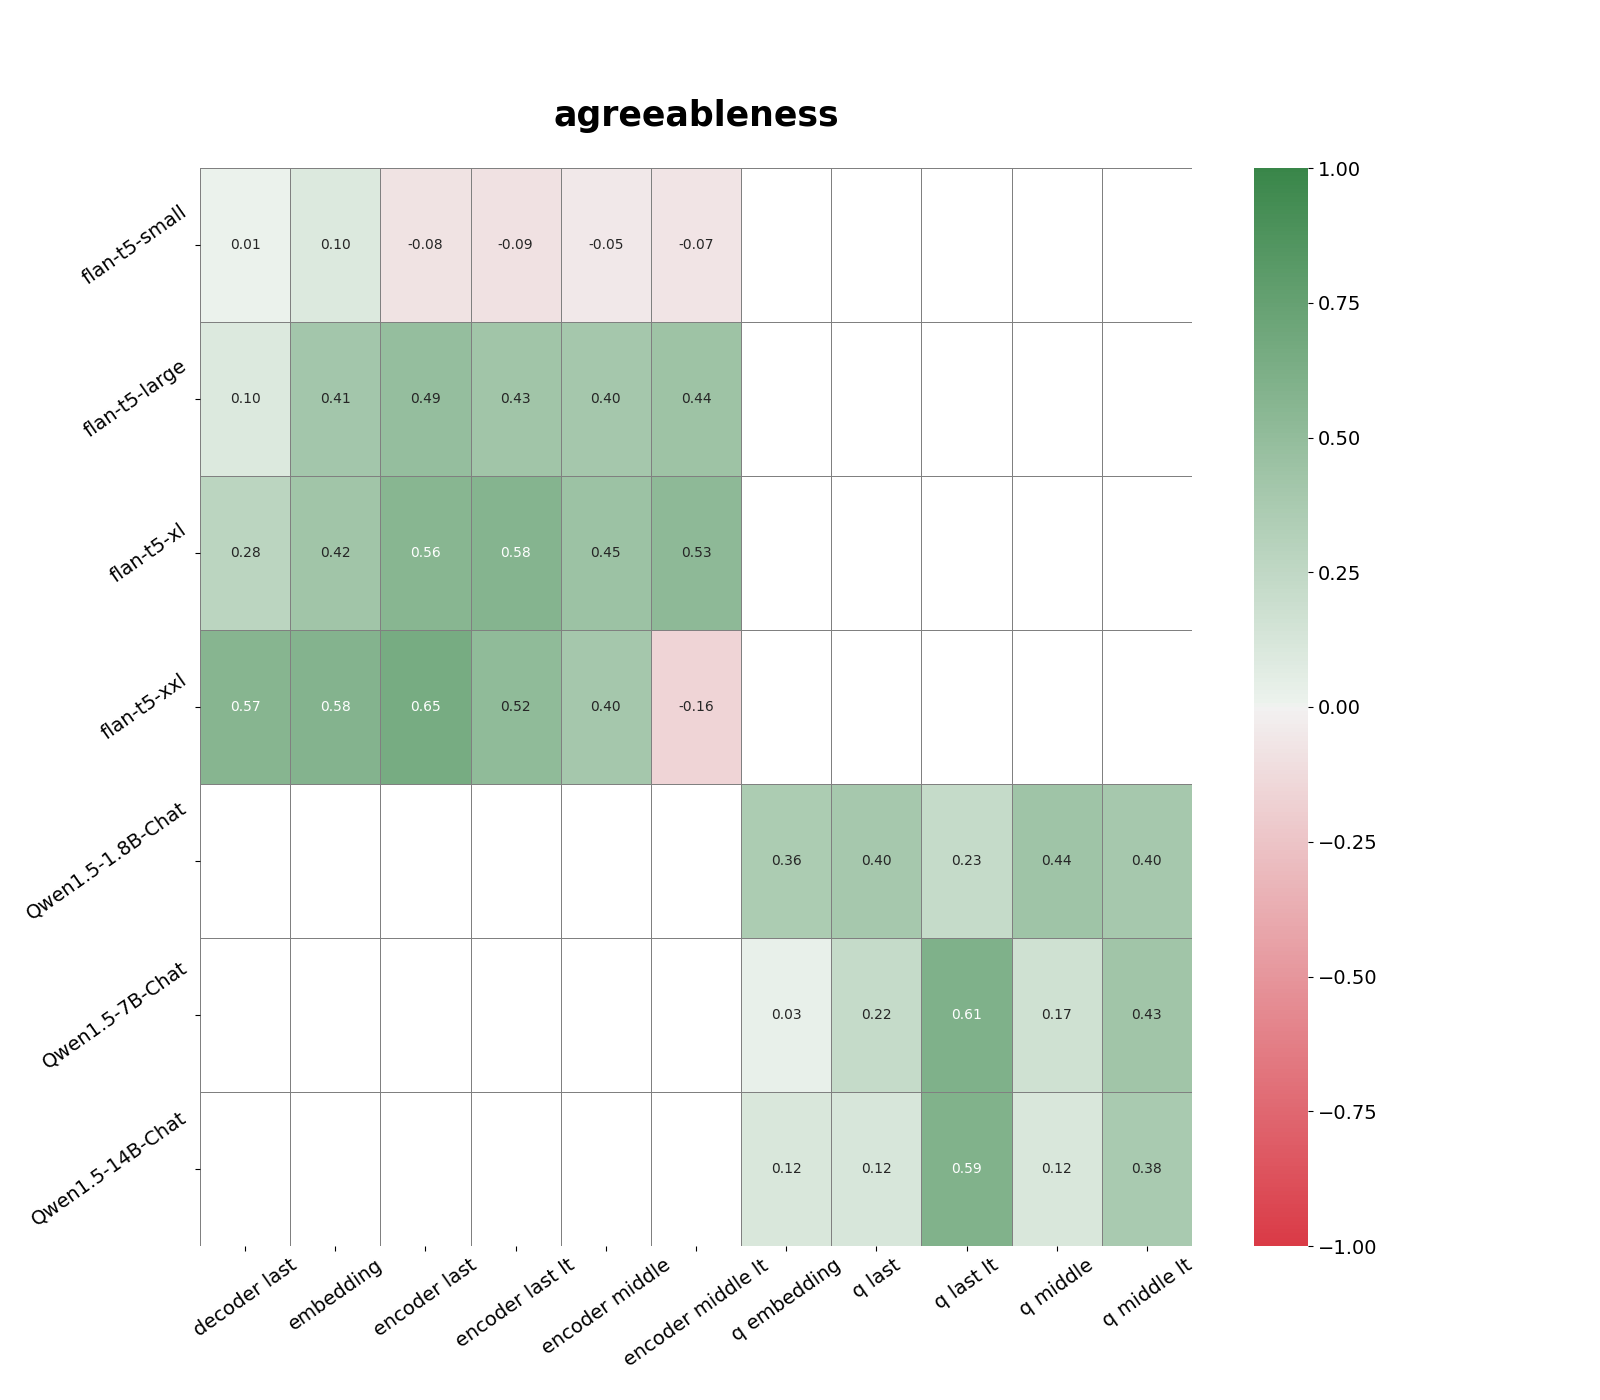
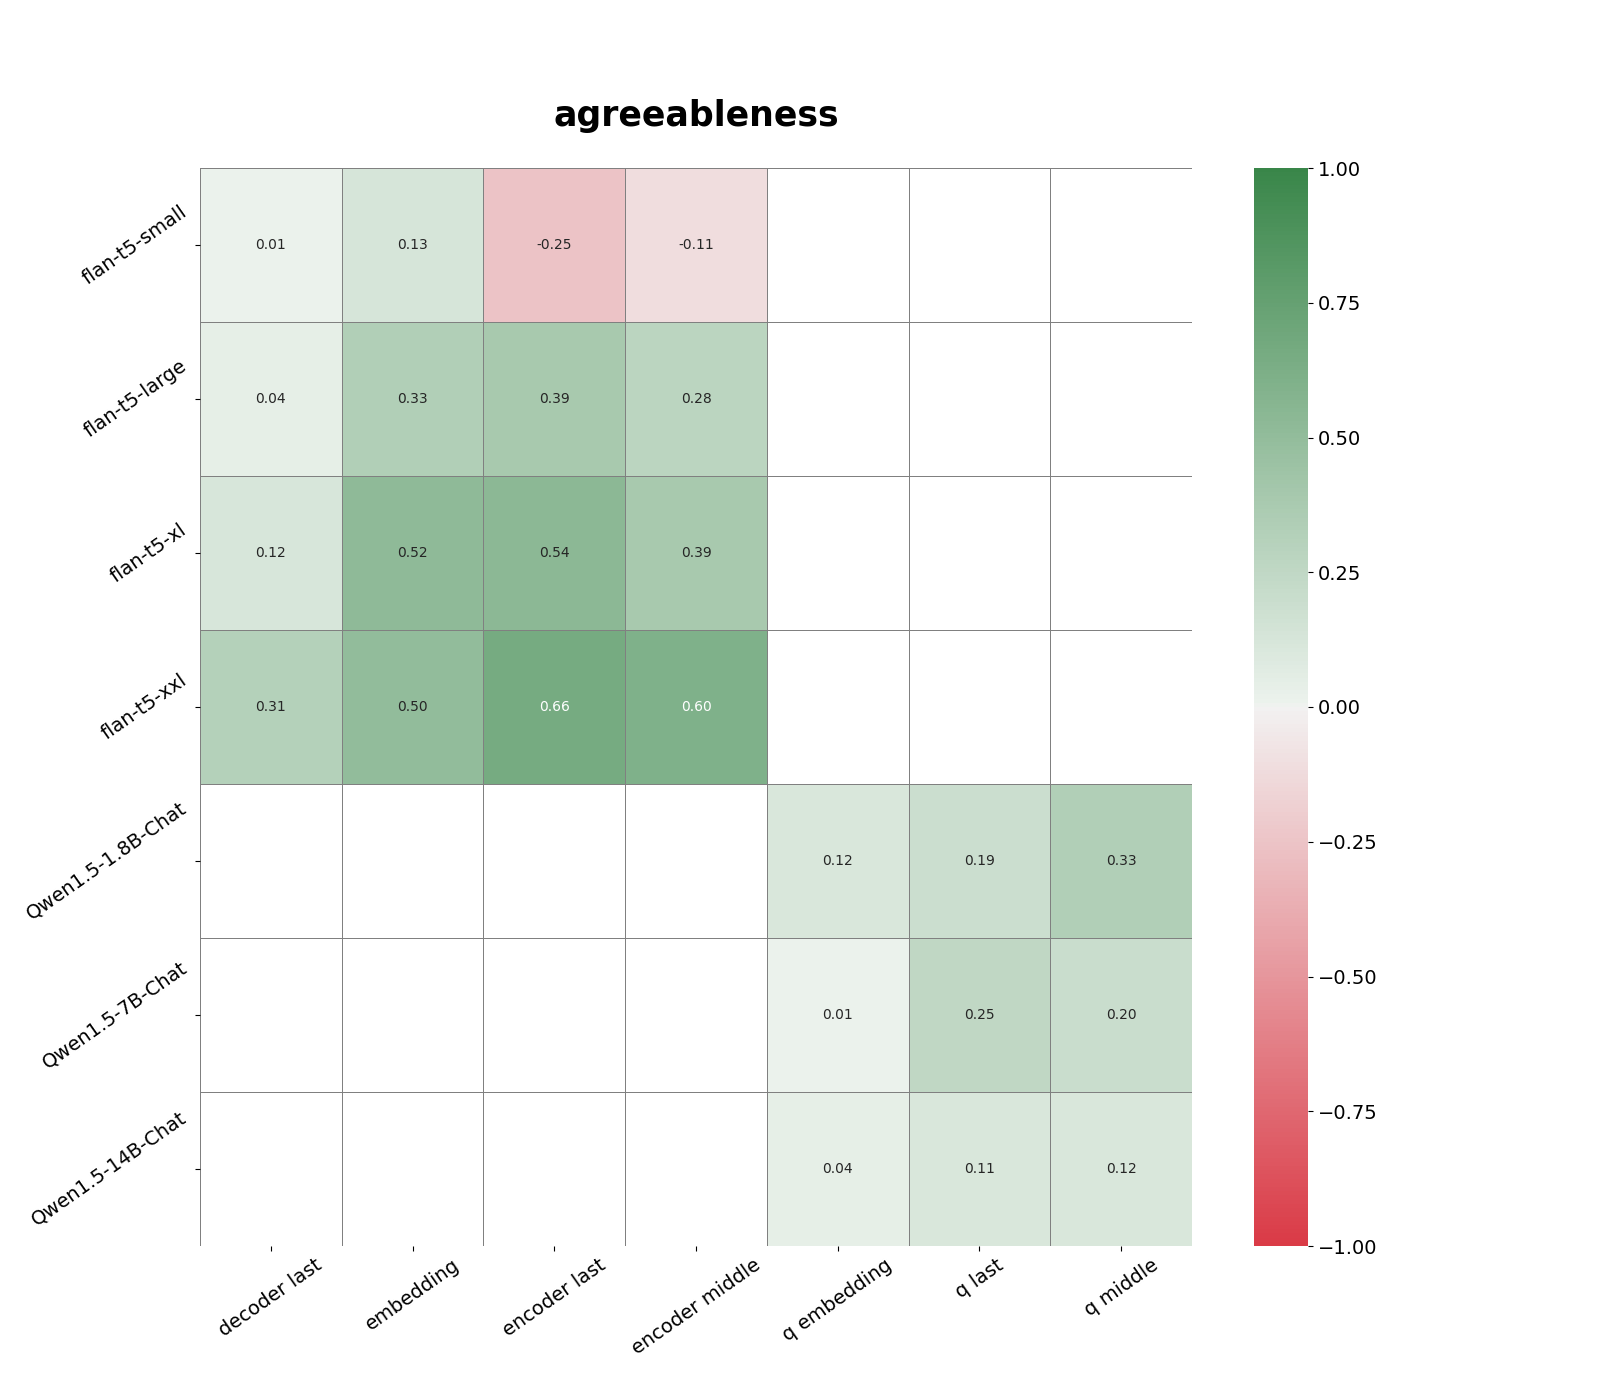
Add layer sweep results

diff --git a/retrieval_lookup.py b/retrieval_lookup.py
@@ -1,0 +1,118 @@
+import os
+from generate_graphs import (
+    TARGET_DIR,
+    generate_all_pairs_heatmaps,
+    list_directories,
+    load_file_contents,
+    extract_prob,
+)
+from retrieval import get_top_k_similar_responses, weighted_average_prob
+from scipy.stats import pearsonr
+from sentence_transformers.util import cos_sim
+import torch
+import jsonlines
+
+
+def queried_response_probs_lookup(
+    model_persona_data, lookup_persona_data, top_k, embeddings_data_file
+):
+    predicted_prob_list, model_prob_list = [], []
+    top_cos_sims = []
+    for i, line in enumerate(model_persona_data):
+        top_k_results = get_top_k_similar_responses(
+            i, model_persona_data, embeddings_data_file, top_k
+        )
+        predicted_prob_list.append(
+            weighted_average_prob(top_k_results, lookup_persona_data)
+        )
+        model_prob_list.append(extract_prob(line))
+        top_cos_sims.append(top_k_results[0][1])
+
+    return model_prob_list, predicted_prob_list, sum(top_cos_sims) / len(top_cos_sims)
+
+
+def compute_cos_sim_lookup(embeddings_data, lookup_embeddings_data):
+    embeddings = [embedding["embedding"] for embedding in embeddings_data]
+    lookup_embeddings = [embedding["embedding"] for embedding in lookup_embeddings_data]
+    for i, embedding in enumerate(embeddings):
+        cos_sims = cos_sim(embedding, lookup_embeddings)[0]
+        embeddings_data[i]["cos_sims"] = cos_sims.tolist()
+    return embeddings_data
+
+
+def add_cos_sim_lookup_to_file():
+    model_dirs, jsonl_files = list_directories("embeddings_hitler/")
+    for embeddings_data_file_name in jsonl_files:
+        for embeddings_model_name in model_dirs:
+            file_path = os.path.join(
+                "embeddings_hitler/", embeddings_model_name, embeddings_data_file_name
+            )
+            lookup_file_path = os.path.join(
+                "embeddings/", embeddings_model_name, embeddings_data_file_name
+            )
+            persona_embeddings_data = load_file_contents(file_path)
+            lookup_embeddings_data = load_file_contents(lookup_file_path)
+            persona_embeddings_data = compute_cos_sim_lookup(
+                persona_embeddings_data, lookup_embeddings_data
+            )
+            with jsonlines.open(file_path, "w") as writer:
+                for line in persona_embeddings_data:
+                    writer.write(line)
+
+
+def compute_correlations_with_queried_responses_lookup(embeddings_model):
+    model_dirs, jsonl_files = list_directories("models_hitler/")
+    persona_correlations = {}
+
+    for persona_data_file_name in jsonl_files:
+        correlations = {}
+        embeddings_data_file = load_file_contents(
+            os.path.join("embeddings_hitler/", embeddings_model, persona_data_file_name)
+        )
+        for model_name in model_dirs:
+            file_path = os.path.join(
+                "models_hitler/", model_name, persona_data_file_name
+            )
+            lookup_file_path = os.path.join(
+                "models/", model_name, persona_data_file_name
+            )
+            model_persona_data = load_file_contents(file_path)
+            lookup_persona_data = load_file_contents(lookup_file_path)
+
+            for top_k in [1, 3, 5]:
+                model_probs_list, avg_probs_list, mean_similarity = (
+                    queried_response_probs_lookup(
+                        model_persona_data,
+                        lookup_persona_data,
+                        top_k,
+                        embeddings_data_file,
+                    )
+                )
+                correlations[model_name.split("/")[-1], top_k], _ = pearsonr(
+                    model_probs_list, avg_probs_list
+                )
+        mean_similarity = round(mean_similarity.item(), 3)
+
+        persona_correlations[
+            f"{persona_data_file_name}, mean similarity {mean_similarity}"
+        ] = correlations
+
+    return persona_correlations
+
+
+if __name__ == "__main__":
+    # embeddings_data_file = load_file_contents(file)
+    # embeddings = [line["embedding"] for line in embeddings_data_file]
+    # cos_sims = torch.tensor(embeddings_data_file[1]["cos_sims"])
+    # top_5_indices = cos_sims.argsort()[-5:]
+    # print(embeddings_data_file[1]["statement"])
+    # top_5_statement = [(embeddings_data_file[i]["statement"], cos_sims[i]) for i in top_5_indices]
+    # print(top_5_statement)
+    embedding_model_names, _ = list_directories("embeddings_hitler/")
+
+    for embeddings_model in embedding_model_names:
+
+        generate_all_pairs_heatmaps(
+            compute_correlations_with_queried_responses_lookup(embeddings_model),
+            save_path=f"{TARGET_DIR}/hitler/correlations_with_retrieved_responses/{embeddings_model}",
+        )

diff --git a/generate_data.py b/generate_data.py
@@ -43,58 +43,19 @@ def compute_logits(question, model, tokenizer, t5=False):
                 output_hidden_states=True,
                 decoder_input_ids=decoder_input_ids,
             )
-            activations["embedding_layer"] = (
-                outputs.encoder_hidden_states[0].squeeze(0).mean(dim=0).tolist()
-            )
-            activations["embedding_layer_last_token"] = (
-                outputs.encoder_hidden_states[0].squeeze(0)[-1].tolist()
-            )
-
-            encoder_middle_layer = len(outputs.encoder_hidden_states) // 2
-            activations["encoder_middle_layer"] = (
-                outputs.encoder_hidden_states[encoder_middle_layer]
-                .squeeze(0)
-                .mean(dim=0)
-                .tolist()
-            )
-            activations["encoder_middle_layer_last_token"] = (
-                outputs.encoder_hidden_states[encoder_middle_layer]
-                .squeeze(0)[-1]
-                .tolist()
-            )
-
-            activations["encoder_last_layer"] = (
-                outputs.encoder_last_hidden_state.squeeze(0).mean(dim=0).tolist()
-            )
-            activations["encoder_last_layer_last_token"] = (
-                outputs.encoder_last_hidden_state.squeeze(0)[-1].tolist()
-            )
+            print(len(outputs.encoder_hidden_states))
+            for i in range(len(outputs.encoder_hidden_states)):
+                activations[f"{i}_encoder_layer"] = (
+                    outputs.encoder_hidden_states[i].squeeze(0).mean(dim=0).tolist()
+                )
 
         else:
             outputs = model(input_ids, output_hidden_states=True)
-            activations["last_layer"] = (
-                outputs.hidden_states[-1].squeeze(0).mean(dim=0).tolist()
-            )
-            middel_hidden_state = len(outputs.hidden_states) // 2
-            activations["middle_layer"] = (
-                outputs.hidden_states[middel_hidden_state]
-                .squeeze(0)
-                .mean(dim=0)
-                .tolist()
-            )
-            activations["embedding_layer"] = (
-                outputs.hidden_states[0].squeeze(0).mean(dim=0).tolist()
-            )
-
-            activations["last_layer_last_token"] = (
-                outputs.hidden_states[-1].squeeze(0)[-1].tolist()
-            )
-            activations["middle_layer_last_token"] = (
-                outputs.hidden_states[middel_hidden_state].squeeze(0)[-1].tolist()
-            )
-            activations["embedding_layer_last_token"] = (
-                outputs.hidden_states[0].squeeze(0)[-1].tolist()
-            )
+            print(len(outputs.hidden_states))
+            for i in range(len(outputs.hidden_states)):
+                activations[f"{i}_layer"] = (
+                    outputs.hidden_states[i].squeeze(0).mean(dim=0).tolist()
+                )
 
         logits = outputs.logits
 
@@ -200,7 +161,6 @@ def generate_embedding(
     max_questions=200,
     openai=False,
 ):
-    model = SentenceTransformer(model_name)
     result_file_name = f"embeddings/{model_name}/{os.path.basename(questions_file)}"
     os.makedirs(os.path.dirname(result_file_name), exist_ok=True)
     with jsonlines.open(questions_file) as reader:
@@ -211,6 +171,7 @@ def generate_embedding(
                 if openai:
                     embedding = compute_embeddings_openAI(question, model_name)
                 else:
+                    model = SentenceTransformer(model_name)
                     embedding = compute_embeddings(question, model)
                 obj["embedding"] = embedding
                 del obj["question"]

diff --git a/retrieval.py b/retrieval.py
@@ -64,15 +64,15 @@ def compute_cos_sims(embeddings_data):
 
 def add_cos_sims_to_file():
     model_dirs, jsonl_files = list_directories("embeddings/")
-    for persona_data_file_name in jsonl_files:
+    for embeddings_data_file_name in jsonl_files:
         for embeddings_model_name in model_dirs:
             file_path = os.path.join(
-                "embeddings/", embeddings_model_name, persona_data_file_name
+                "embeddings/", embeddings_model_name, embeddings_data_file_name
             )
-            model_persona_data = load_file_contents(file_path)
-            model_persona_data = compute_cos_sims(model_persona_data)
+            persona_embeddings_data = load_file_contents(file_path)
+            persona_embeddings_data = compute_cos_sims(persona_embeddings_data)
             with jsonlines.open(file_path, "w") as writer:
-                for line in model_persona_data:
+                for line in persona_embeddings_data:
                     writer.write(line)
 
 
@@ -108,13 +108,6 @@ def compute_correlations_with_queried_responses(embeddings_model):
 
 
 if __name__ == "__main__":
-    # embeddings_data_file = load_file_contents(file)
-    # embeddings = [line["embedding"] for line in embeddings_data_file]
-    # cos_sims = torch.tensor(embeddings_data_file[1]["cos_sims"])
-    # top_5_indices = cos_sims.argsort()[-5:]
-    # print(embeddings_data_file[1]["statement"])
-    # top_5_statement = [(embeddings_data_file[i]["statement"], cos_sims[i]) for i in top_5_indices]
-    # print(top_5_statement)
     embedding_model_names, _ = list_directories("embeddings/")
 
     for embeddings_model in embedding_model_names:

diff --git a/generate_graphs.py b/generate_graphs.py
@@ -10,8 +10,8 @@ import torch
 from sentence_transformers.util import cos_sim
 
 MODEL_ORDER = [
-    "gpt-3.5-turbo",
-    "gpt-4-1106-preview",
+    # "gpt-3.5-turbo",
+    # "gpt-4-1106-preview",
     "flan-t5-small",
     "flan-t5-large",
     "flan-t5-xl",
@@ -129,6 +129,8 @@ def predicted_probs_from_activation(model_persona_data, activation_layer):
         prediction_set, activation_layer
     )
     for i, query_data in enumerate(eval_set):
+        if i % 2 == 0:
+            continue
         predicted_prob_list.append(
             compute_cosine_similarity(
                 average_activation_vectors, query_data, activation_layer
@@ -200,7 +202,7 @@ def compute_correlations_with_prediction_from_activations():
             file_path = os.path.join("models/", model_name, persona_data_file_name)
             model_persona_data = load_file_contents(file_path)
             for hidden_layer in model_persona_data[0]["activations"].keys():
-                if hidden_layer == "embedding_layer_last_token":
+                if "last_token" in hidden_layer:
                     continue
                 model_probs_list, predicted_probs_list = (
                     predicted_probs_from_activation(model_persona_data, hidden_layer)
